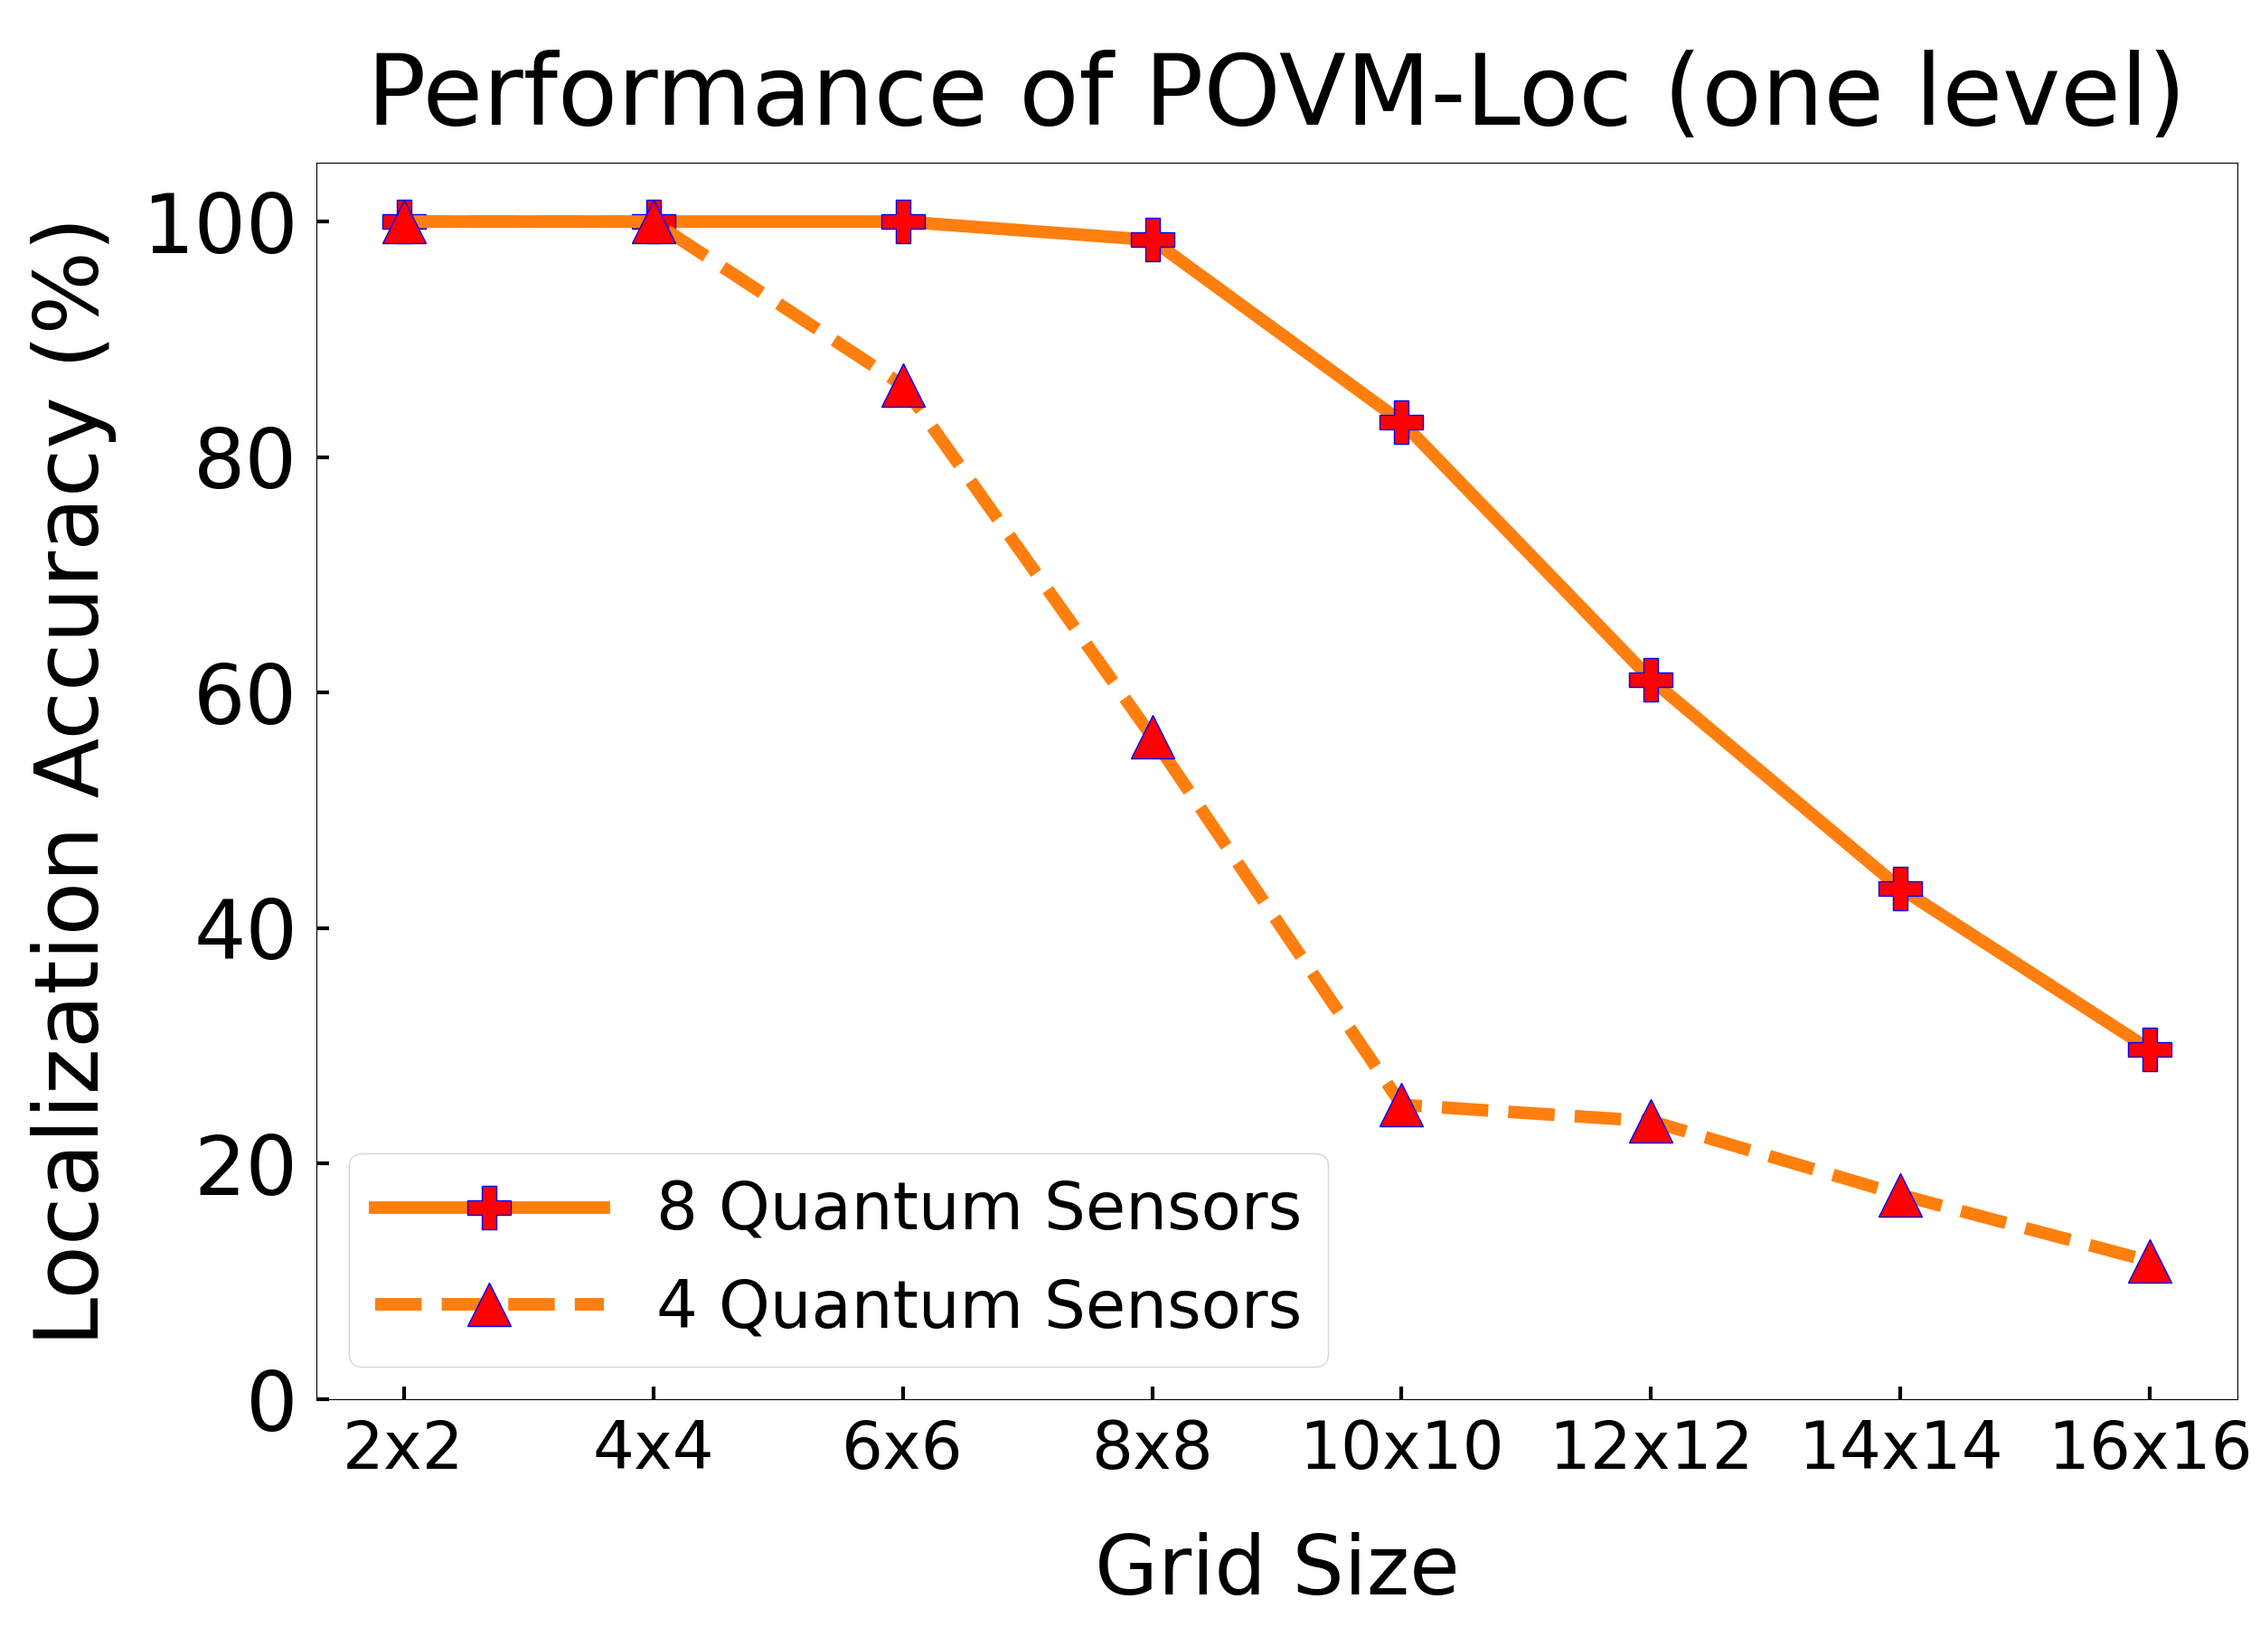
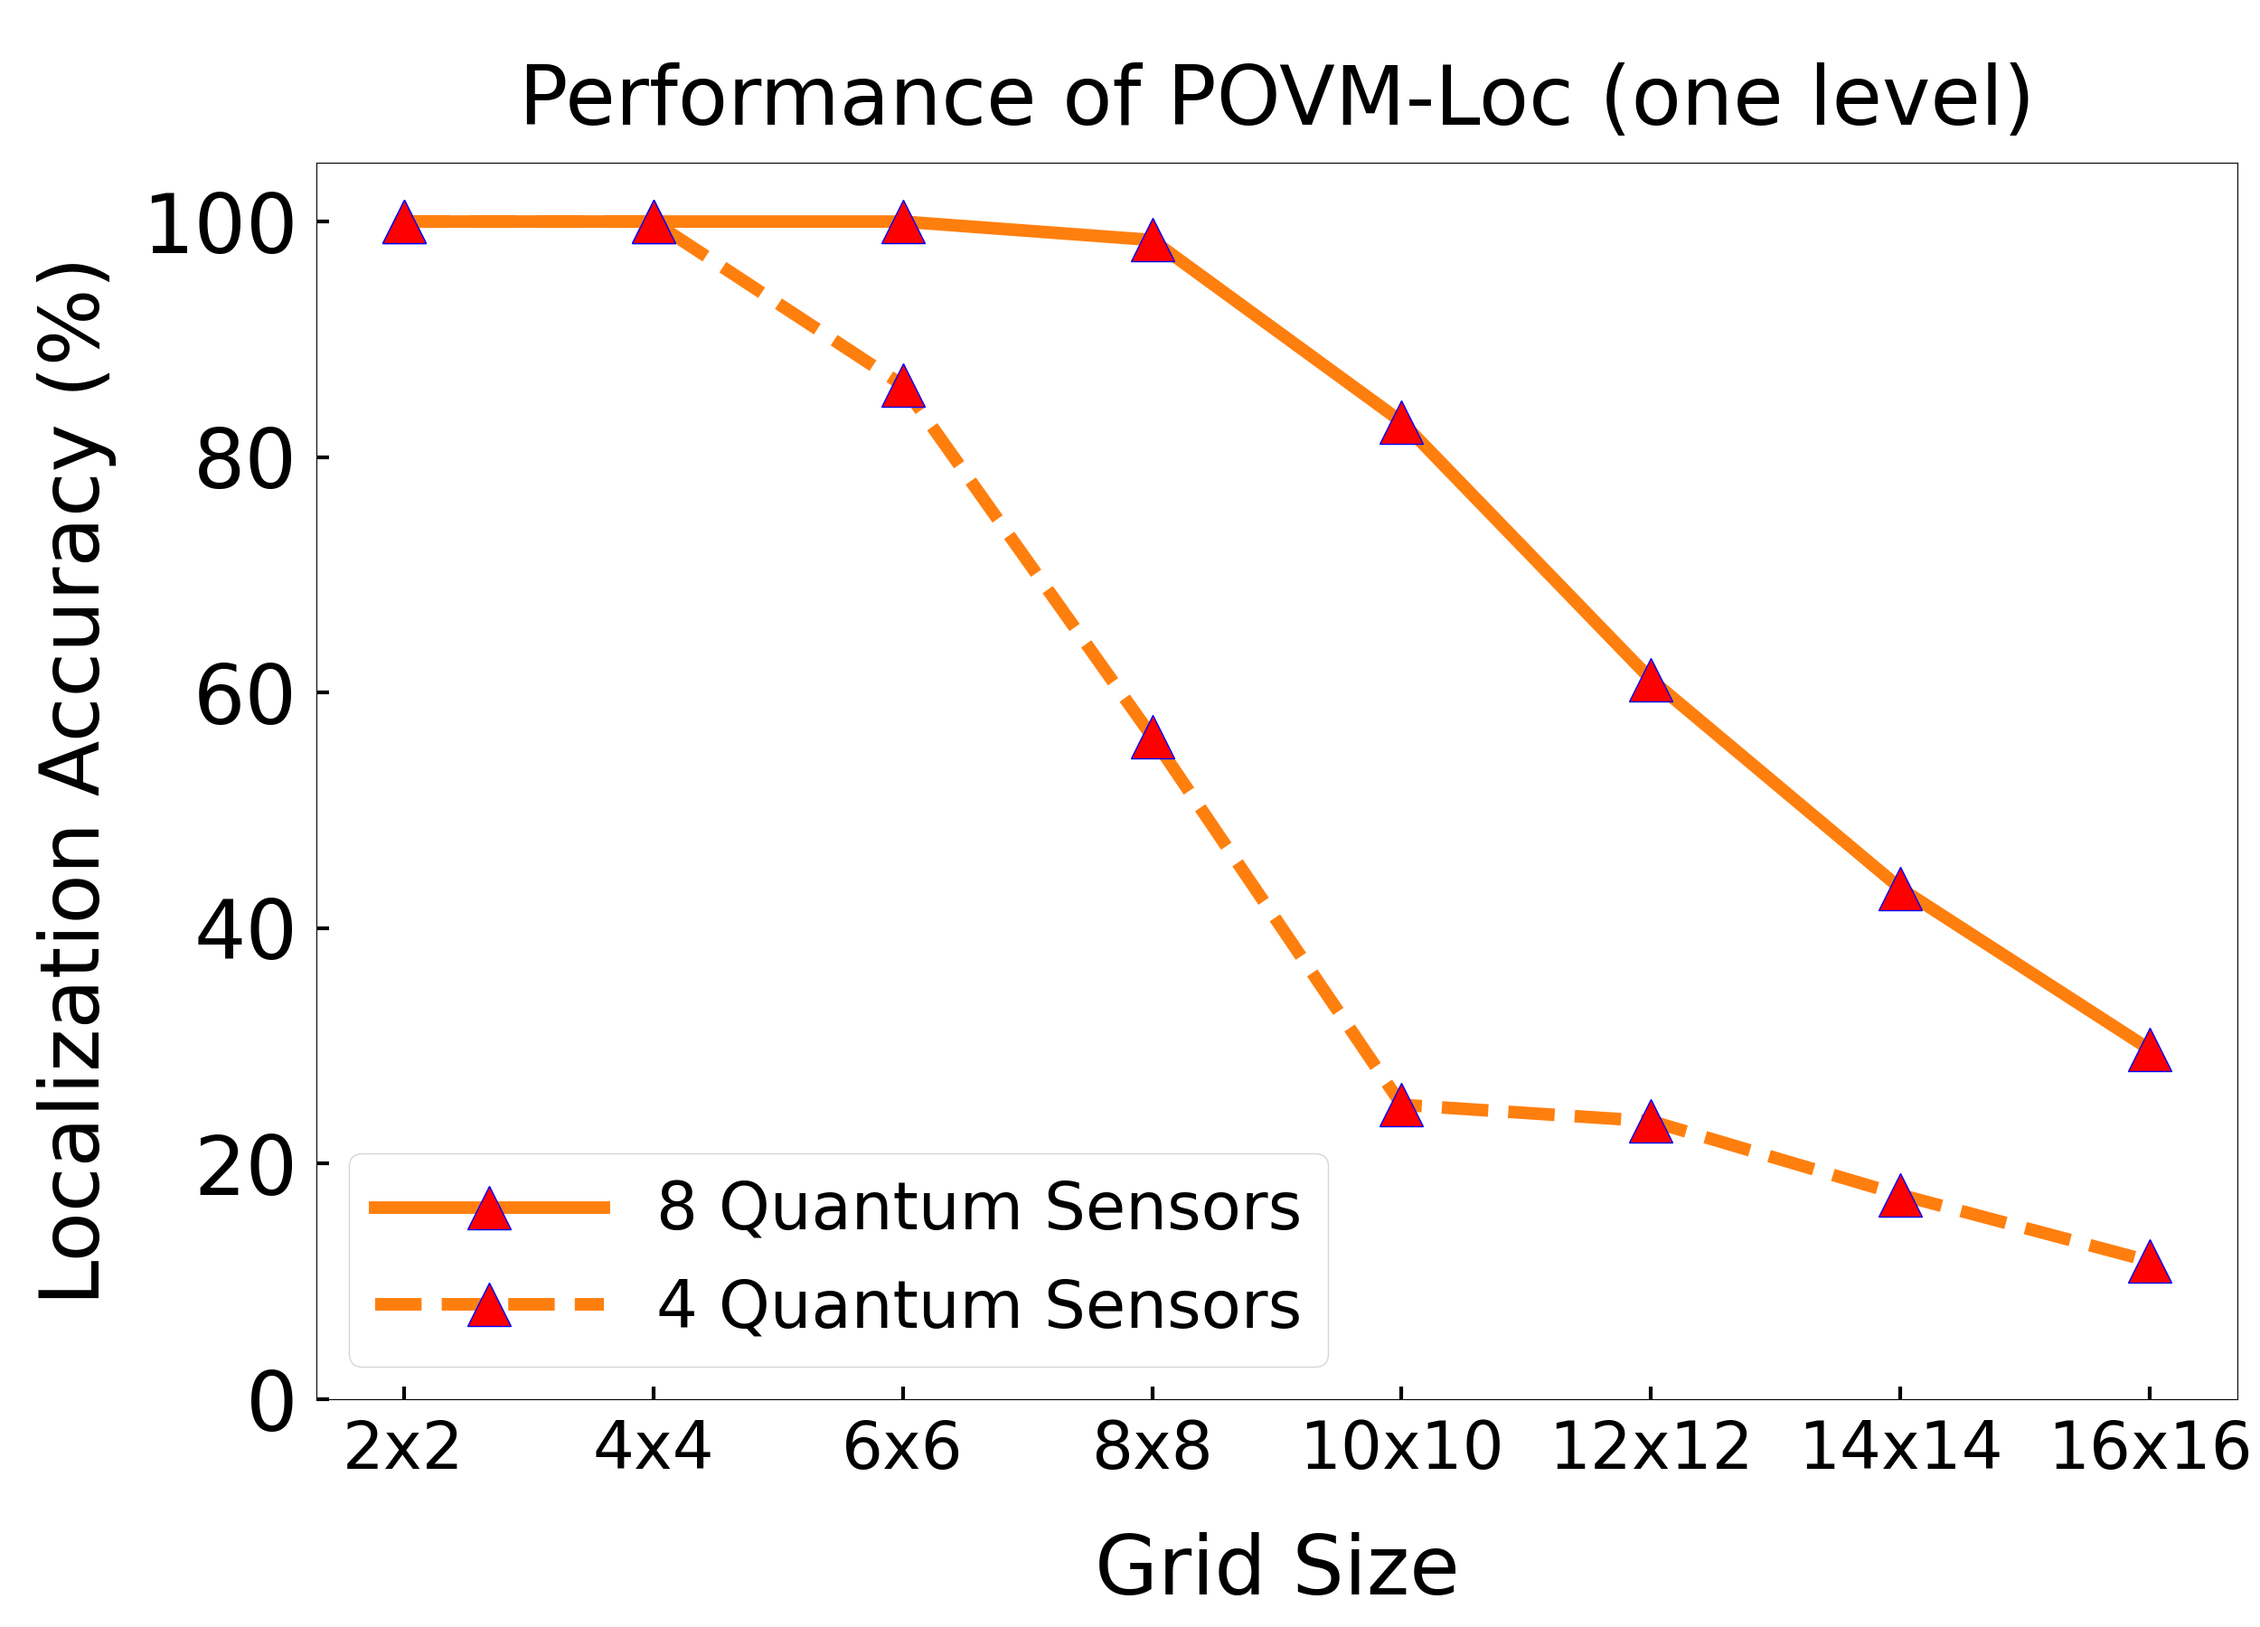
add new plot for povmloc and povmloc pro

diff --git a/plot.py b/plot.py
@@ -12,12 +12,12 @@ class Plot:
     plt.rcParams['lines.linewidth'] = 10
     plt.rcParams['lines.markersize'] = 35
 
-    METHOD  = ['povmloc-one', 'povmloc-two', 'povmloc-two-pro']
+    METHOD  = ['povmloc-one',          'povmloc',  'povmloc-pro']
     _LEGEND = ['POVM-Loc (one level)', 'POVM-Loc', 'POVM-Loc Pro']
     LEGEND  = dict(zip(METHOD, _LEGEND))
 
-    METHOD  = ['povmloc-one', 'povmloc-two', 'povmloc-two-pro']
-    _COLOR  = ['tab:orange',  'blue',        'r']
+    METHOD  = ['povmloc-one', 'povmloc', 'povmloc-pro']
+    _COLOR  = ['tab:orange',  'blue',    'r']
     COLOR   = dict(zip(METHOD, _COLOR))
 
     @staticmethod
@@ -68,20 +68,55 @@ class Plot:
         # step 2: plotting
         fig, ax = plt.subplots(1, 1, figsize=(25, 18))
         fig.subplots_adjust(left=0.14, right=0.99, top=0.9, bottom=0.14)
-        ax.plot(X, y_8sen, linestyle='-', marker='P', label="8 Quantum Sensors", mfc='r', mec='b', color=Plot.COLOR['povmloc-one'])
-        ax.plot(X, y_4sen, linestyle='--',  marker='^', label="4 Quantum Sensors", mfc='r', mec='b', color=Plot.COLOR['povmloc-one'])
+        ax.plot(X, y_8sen, linestyle='-',  marker='^', label="8 Quantum Sensors", mfc='r', mec='b', color=Plot.COLOR['povmloc-one'])
+        ax.plot(X, y_4sen, linestyle='--', marker='^', label="4 Quantum Sensors", mfc='r', mec='b', color=Plot.COLOR['povmloc-one'])
         fig.legend(ncol=1, loc='lower left', bbox_to_anchor=(0.14, 0.14), fontsize=52, handlelength=3.5)
         ax.set_xlabel('Grid Size', labelpad=40)
         ax.set_xticks(X)
         ax.set_xticklabels([f'{int(x)}x{int(x)}' for x in X])
         ax.tick_params(axis='x', pad=15, direction='in', length=10, width=3, labelsize=52)
         ax.tick_params(axis='y', pad=15, direction='in', length=10, width=3)
-        ax.set_ylabel('Localization Accuracy (%)', fontsize=70, labelpad=20)
+        ax.set_ylabel('Localization Accuracy (%)', labelpad=20)
         ax.set_ylim([0, 105])
         method = Plot.LEGEND['povmloc-one']
-        ax.set_title(f'Performance of {method}', pad=30)
+        ax.set_title(f'Performance of {method}', pad=30, fontsize=65)
         fig.savefig(figname)
 
+
+    @staticmethod
+    def povmloc_vary_noise(data: list, figname: str):
+        reduce = Plot.reduce_accuracy
+        # step 1: prepare data
+        table = defaultdict(list)
+        for myinput, output_by_method in data:
+            table[int(myinput.noise)].append({method: output.correct for method, output in output_by_method.items()})
+        
+        print_table = []
+        methods = ['povmloc', 'povmloc-pro']
+        for x, list_of_y_by_method in sorted(table.items()):
+            tmp_list = [reduce([(y_by_method[method] if method in y_by_method else None) for y_by_method in list_of_y_by_method]) for method in methods]
+            print_table.append([x] + tmp_list)
+        print(tabulate.tabulate(print_table, headers=['Noise'] + methods))
+        arr = np.array(print_table)
+        X      = arr[:, 0]
+        y_povmloc     = arr[:, 1] * 100  # percentage
+        y_povmloc_pro = arr[:, 2] * 100
+
+        # step 2: plotting
+        fig, ax = plt.subplots(1, 1, figsize=(25, 18))
+        fig.subplots_adjust(left=0.14, right=0.99, top=0.9, bottom=0.14)
+        ax.plot(X, y_povmloc_pro, marker='^', label=Plot.LEGEND['povmloc-pro'], mfc='black', mec='b', color=Plot.COLOR['povmloc-pro'])
+        ax.plot(X, y_povmloc,     marker='^', label=Plot.LEGEND['povmloc'],   mfc='black', mec='b', color=Plot.COLOR['povmloc'])
+        fig.legend(ncol=1, loc='lower left', bbox_to_anchor=(0.14, 0.14), fontsize=55, handlelength=3.5)
+        ax.set_xlabel('Noise (Std. of Shadowing)', labelpad=40)
+        ax.set_xticks(X)
+        ax.tick_params(axis='x', pad=15, direction='in', length=10, width=3, labelsize=60)
+        ax.tick_params(axis='y', pad=15, direction='in', length=10, width=3, labelsize=60)
+        ax.set_ylabel('Localization Accuracy (%)', labelpad=20)
+        ax.set_ylim([87, 101])
+        method1 = Plot.LEGEND['povmloc']
+        ax.set_title(f'Performance of {method1} and Pro in 16x16 Grid', pad=30, fontsize=65, loc='right')
+        fig.savefig(figname)
 
 
 
@@ -94,9 +129,21 @@ def povmloc_one_varygridsize():
     Plot.povmloc_one_vary_gridsize(data, figname)
 
 
+def povmloc_varynoise():
+    '''evaluate the performance of povmloc and povmloc-pro against varying noise
+    '''
+    logs = ['results/twolevel.noise0', 'results/twolevel.noise1', 'results/twolevel.noise2', 'results/twolevel.noise3', 'results/twolevel.noise4']
+    data = Utility.read_logs(logs)
+    figname = 'results/twolevel-varynoise.png'
+    Plot.povmloc_vary_noise(data, figname)
+
+
+
 if __name__ == '__main__':
 
     povmloc_one_varygridsize()
+
+    povmloc_varynoise()
 
 
 '''
@@ -113,5 +160,16 @@ POVM-Loc (one level)
            12  0.236111  0.611111
            14  0.173469  0.433673
            16  0.117188  0.296875
+
+
+POVM-Loc and POVM-Loc Pro
+
+  Noise    povmloc    povmloc-pro
+-------  ---------  -------------
+      0   0.925781       0.996094
+      1   0.925781       0.992188
+      2   0.929688       0.996094
+      3   0.921875       0.996094
+      4   0.914062       0.992188
 
 '''

diff --git a/localization.py b/localization.py
@@ -381,6 +381,7 @@ class QuantumLocalization:
             max_i, freqs = self.sense_measure_index(tx_truth, sensors, povm['povm'], Default.repeat, early_stop=False)            
             tx_level1 = povm['tx_loc'][max_i]
             level_1_correct = self.check_correct(tx_truth, tx_level1, block_len=1)
+            print(tx_truth, sorted(list(freqs.items()), key=lambda x: -x[1])[:4], end='; ')
             print('level-1.5 tx', tx_level1, level_1_correct)
             return level_1_correct, tx_level1
         print()

diff --git a/default.py b/default.py
@@ -34,4 +34,4 @@ class Default:
     stepsize_decreasing_rate = 0.96 # the stepsize decreasing rate
     EPSILON = 1e-6
 
-    DEBUG = False
+    DEBUG = True
